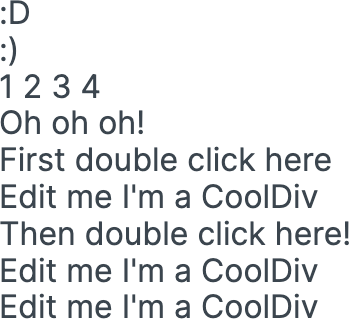
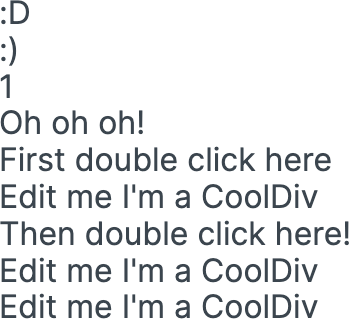
[ecu] Edit text on component App

Changed region(s): [[0.2292, 0.2257, 0.2865, 0.3103], [0.1433, 0.2257, 0.2006, 0.3103], [0.0573, 0.2257, 0.1146, 0.3103]]

diff --git a/app/src/App.tsx b/app/src/App.tsx
@@ -43,7 +43,7 @@ function App(props: AppPropsType) {
         <Text data-ecu="dZL1Xh1Cuv:0_0">:D</Text>
       </Div>
       <Text data-ecu="dZL1Xh1Cuv:1">:)</Text>
-      <Text data-ecu="dZL1Xh1Cuv:2">1</Text>
+      <Text data-ecu="dZL1Xh1Cuv:2">{'1\n2'}</Text>
       <Text data-ecu="dZL1Xh1Cuv:3">Oh oh oh!</Text>
       <Text data-ecu="dZL1Xh1Cuv:4">First double click here</Text>
       <CoolDiv />
